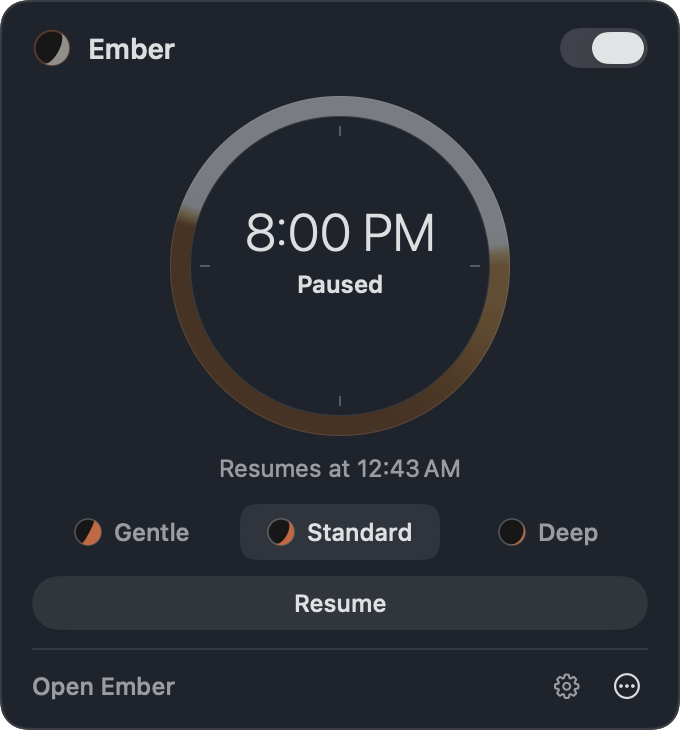
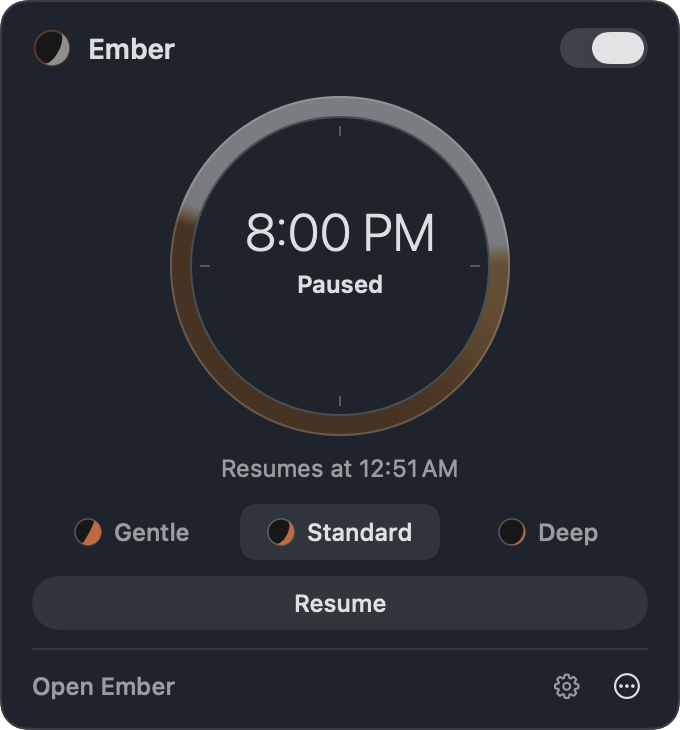
fix: keep the daylight ring visible on the light panel

Changed region(s): [[0.3088, 0.6329, 0.6794, 0.663]]

diff --git a/Ember/DayDial.swift b/Ember/DayDial.swift
@@ -117,8 +117,8 @@ private struct DialRing: View, Equatable {
                 .grayscale(active ? 0 : 1)
                 .opacity(active ? 1 : 0.4)
             // Hairlines keep the daylight white visible on a light surface.
-            Circle().strokeBorder(.primary.opacity(0.12), lineWidth: 0.5)
-            Circle().strokeBorder(.primary.opacity(0.12), lineWidth: 0.5).padding(width)
+            Circle().strokeBorder(.primary.opacity(0.22), lineWidth: 1)
+            Circle().strokeBorder(.primary.opacity(0.22), lineWidth: 1).padding(width)
             DialTicks(inset: width + 5)
         }
         .accessibilityHidden(true)
